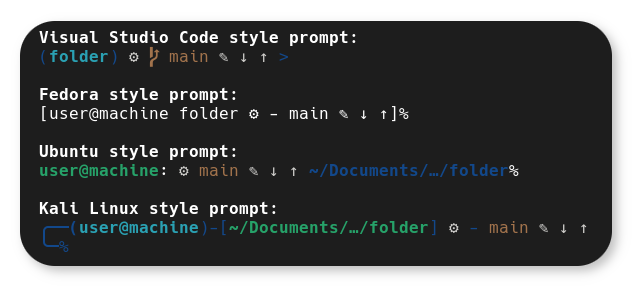
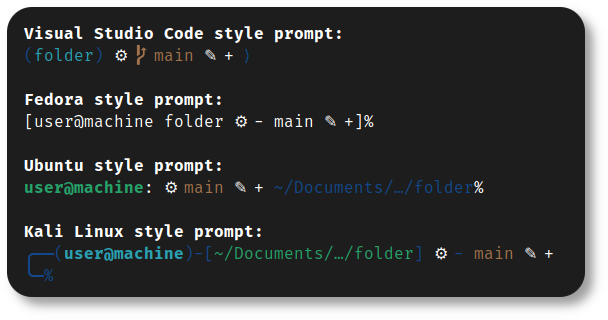
🔨 Modified code for git prompt to make it faster
The git prompt doesn't provide as much info now, but it will be much
faster.

Changed region(s): [[0.0, 0.0, 1.0, 0.9756]]

diff --git a/CHANGELOG.md b/CHANGELOG.md
@@ -35,6 +35,8 @@ All significant changes to **Fedora Setup** will be documented here.
 	- Added *Document Scanner* to the list.
 ### Changed
 - [.zshrc](samples/zshrc):
+	- The code for the git prompt was changed to be much faster by using zsh's *vcs_info*. This means
+		less functionality, but much less code to run every time the prompt needs to be renderes.
 	- The shell can now detect when it is running inside GNOME Builder, and use the vscode prompt.
 	- The `la` alias now groups folders first.
 - [.bashrc](samples/bashrc):

diff --git a/README.md b/README.md
@@ -65,7 +65,7 @@ successfully.
 This project can set up some powerful features, such as:
 
 - Advanced, stylized prompts for the **Z-Shell**:
-	<p align="center"><img width="600" height="272" src="assets/prompts.png"></p>
+	<p align="center"><img width="600" height="315" src="assets/prompts.png"></p>
 - Powerline plugin for the **Vim** editor:
 	<p align="center"><img width="600" height="390" src="assets/vim-powerline.png"></p>
 - Setting up **GnuPG** to sign **Git** commits:
